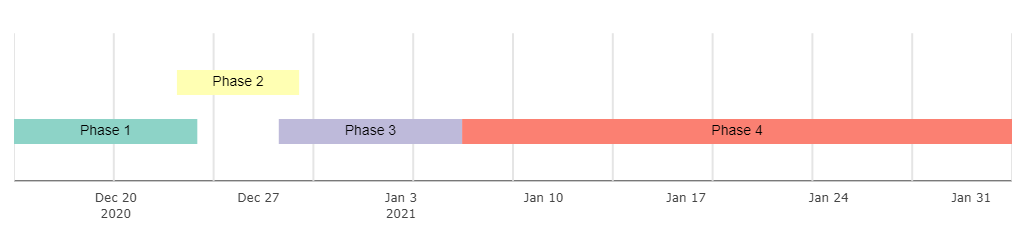
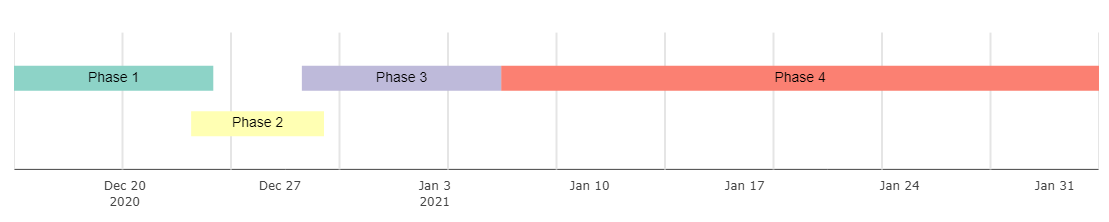
First events shall appear at the top not bottom when optimize_y=T // Draw background lines even when end < start

diff --git a/README.md b/README.md
@@ -157,11 +157,12 @@ vistime(data, optimize_y = FALSE)
 Once created, you can use `plotly::export()` for saving your vistime chart as PDF, PNG or JPEG:
 
 ```{r
+# webshot::install_phantomjs()
 chart <- vistime(pres, events="Position")
-export(chart, file = "presidents.pdf")
+plotly::export(chart, file = "presidents.pdf")
 ```
 
-Note that export requires the `webshot` package and additional arguments like width or height can be used (`?webshot` for the details).
+Note that export requires the `webshot` package and additional arguments like width or height can be used (`?webshot` for the details). You can also download the plot as PNG by using the toolbar on the upper right side of the generated plot.
 
 ## 7. Usage in Shiny apps
 
